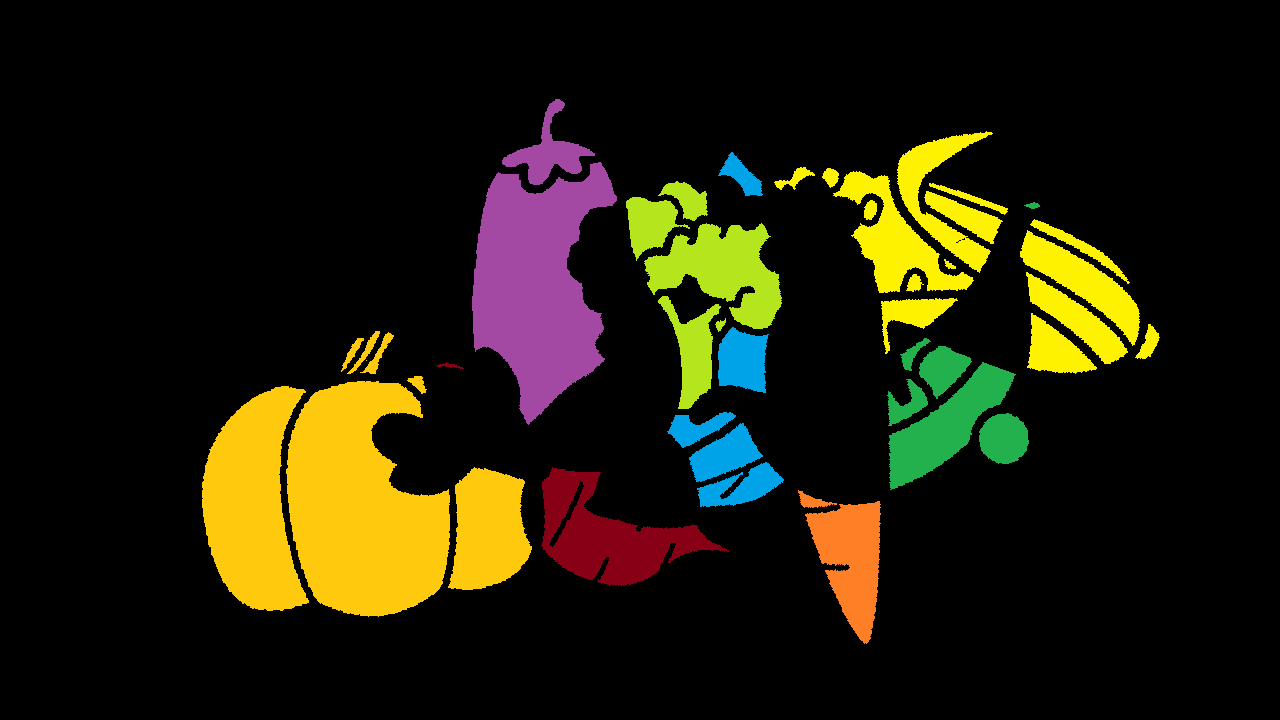
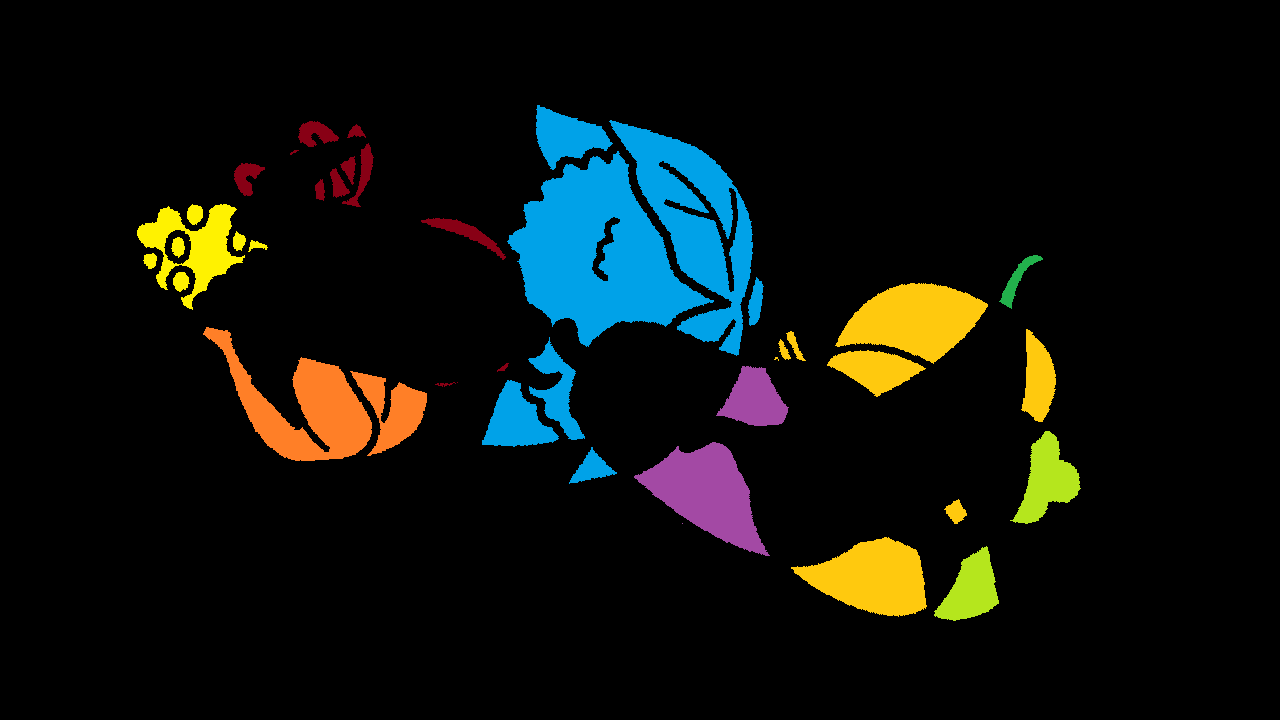
images column view

diff --git a/core/src/com/mygdx/game/screens/ScreenOverlayShapes.java b/core/src/com/mygdx/game/screens/ScreenOverlayShapes.java
@@ -4,14 +4,17 @@ import com.badlogic.gdx.Screen;
 import com.badlogic.gdx.utils.ScreenUtils;
 import com.mygdx.game.MyGdxGame;
 import com.mygdx.game.testSessions.SessionOverlayShapes;
-import com.mygdx.game.testSessions.sessionsStates.StateOverlayShapes;
 import com.mygdx.game.ui.BackgroundPixmap;
 import com.mygdx.game.ui.TextButton;
+import com.mygdx.game.ui.TextView;
 import com.mygdx.game.ui.View;
+import com.mygdx.game.ui.overlayShapes.ImageColumnView;
 import com.mygdx.game.ui.overlayShapes.ImageMapView;
 import com.mygdx.game.utils.RenderHelper;
 import com.mygdx.game.utils.SceneHelper;
+import com.mygdx.game.utils.overlayShapes.Shape;
 
+import static com.mygdx.game.utils.ApplicationSettings.COLORED_SHAPES_DIR;
 import static com.mygdx.game.utils.UsingColors.COLOR_BG_GRAY;
 
 public class ScreenOverlayShapes implements Screen {
@@ -36,6 +39,12 @@ public class ScreenOverlayShapes implements Screen {
 
         BackgroundPixmap background = new BackgroundPixmap(COLOR_BG_GRAY);
 
+        TextView textViewTitle = new TextView(
+                myGdxGame.fontArialBlack64,
+                "Перетащи овощи",
+                -1, 907
+        );
+
         TextButton startButton = new TextButton(
                 myGdxGame.fontArialBlack64,
                 "Начать",
@@ -43,7 +52,17 @@ public class ScreenOverlayShapes implements Screen {
                 775, 155
         );
 
-        ImageMapView imageMapView = new ImageMapView(100, 1280, 720, testSession.getSelectedSample(),
+        ImageColumnView imageColumnView1 = new ImageColumnView(140, 122, 720, 40);
+        ImageColumnView imageColumnView2 = new ImageColumnView(1760, 122, 720, 40);
+
+        for (int i = 0; i < testSession.shapeList.size(); i++) {
+            if (i < testSession.shapeList.size() / 2)
+                imageColumnView1.addImage(COLORED_SHAPES_DIR + testSession.shapeList.get(i).getName());
+            else
+                imageColumnView2.addImage(COLORED_SHAPES_DIR + testSession.shapeList.get(i).getName());
+        }
+
+        ImageMapView imageMapView = new ImageMapView(122, 1280, 720, testSession.getSelectedSample(),
                 onImageMapViewPressed, myGdxGame);
 
         startButton.setOnClickListener(onStartButtonClicked);
@@ -52,9 +71,14 @@ public class ScreenOverlayShapes implements Screen {
         sceneGreeting.addActor(startButton);
 
         sceneShpaesShowing.addActor(background);
-        sceneGreeting.addActor(imageMapView);
+        sceneShpaesShowing.addActor(imageMapView);
+        sceneShpaesShowing.addActor(textViewTitle);
+        sceneShpaesShowing.addActor(imageColumnView1);
+        sceneShpaesShowing.addActor(imageColumnView2);
 
         scenePassed.addActor(background);
+
+        System.out.println("Count of shapes: " + testSession.shapeList.size());
     }
 
     @Override

diff --git a/core/src/com/mygdx/game/utils/overlayShapes/ShapesDescriptor.java b/core/src/com/mygdx/game/utils/overlayShapes/ShapesDescriptor.java
@@ -1,0 +1,45 @@
+package com.mygdx.game.utils.overlayShapes;
+
+import java.util.ArrayList;
+
+public class ShapesDescriptor {
+
+    static String[] allDescriptions = {
+            "(808, 353);15;broccoli.png\n" +
+                    "(186, 199);4;cabbage.png\n" +
+                    "(463, 92);81;cauliflower.png\n" +
+                    "(672, 246);2;peas.png\n" +
+                    "(185, 70);53;beet.png\n" +
+                    "(94, 92);78;corn.png\n" +
+                    "(669, 211);59;pumpkin.png\n" +
+                    "(500, 226);57;eggplant.png\n"
+    };
+
+    private static int clearNumber(String inputStr) {
+        String outputStr = "";
+        for (int i = 0; i < inputStr.length(); i++) {
+            if (Character.isDigit(inputStr.charAt(i)))
+                outputStr += inputStr.charAt(i);
+        }
+        return Integer.parseInt(outputStr);
+    }
+
+    public static ArrayList<Shape> getSampleShapes(int sampleIdx) {
+        ArrayList<Shape> shapesList = new ArrayList<>();
+
+        String inputData = allDescriptions[sampleIdx];
+        String[] lines = inputData.split("\n");
+        for (String line : lines) {
+            String[] splitLine = line.split(";");
+            shapesList.add(new Shape(
+                    clearNumber(splitLine[0].split(",")[0]),
+                    clearNumber(splitLine[0].split(",")[1]),
+                    Integer.parseInt(splitLine[1]),
+                    splitLine[2]
+            ));
+        }
+
+        return shapesList;
+    }
+
+}

diff --git a/core/src/com/mygdx/game/testSessions/SessionOverlayShapes.java b/core/src/com/mygdx/game/testSessions/SessionOverlayShapes.java
@@ -2,6 +2,10 @@ package com.mygdx.game.testSessions;
 
 import com.mygdx.game.testSessions.sessionsStates.StateOverlayShapes;
 import com.mygdx.game.utils.overlayShapes.ColorMap;
+import com.mygdx.game.utils.overlayShapes.Shape;
+import com.mygdx.game.utils.overlayShapes.ShapesDescriptor;
+
+import java.util.ArrayList;
 
 import static com.mygdx.game.utils.ApplicationSettings.COUNT_OF_FILES;
 
@@ -11,11 +15,14 @@ public class SessionOverlayShapes {
     public ColorMap colorMap;
     private int selectedSample;
 
+    public ArrayList<Shape> shapeList;
+
     public int getSelectedSample() {
         return selectedSample;
     }
 
     public SessionOverlayShapes() {
+        shapeList = new ArrayList<>();
         testState = StateOverlayShapes.GREETING;
         startSession();
     }
@@ -31,17 +38,12 @@ public class SessionOverlayShapes {
         System.out.println("Selected sample: " + selectedSample);
         System.out.println("Count of samples: " + countOfSamples);
 
-        prepareColorMap(selectedSample);
+        colorMap = new ColorMap(selectedSample);
+        shapeList = ShapesDescriptor.getSampleShapes(selectedSample);
     }
 
     public void startTest() {
         testState = StateOverlayShapes.SHAPES_SHOWING;
-    }
-
-    private void prepareColorMap(int selectedSample) {
-        colorMap = new ColorMap(selectedSample);
-
-        System.out.println("Color code: " + colorMap.getColorCode(535, 360));
     }
 
 }

diff --git a/core/src/com/mygdx/game/ui/overlayShapes/ImageColumnView.java b/core/src/com/mygdx/game/ui/overlayShapes/ImageColumnView.java
@@ -1,0 +1,46 @@
+package com.mygdx.game.ui.overlayShapes;
+
+import com.mygdx.game.MyGdxGame;
+import com.mygdx.game.ui.ImageView;
+import com.mygdx.game.ui.View;
+
+import java.util.ArrayList;
+
+public class ImageColumnView extends View {
+
+    ArrayList<ImageView> imagesList;
+    int imagesPadding;
+
+    public ImageColumnView(float x, float y, int height, int imagesPadding) {
+        super(x, y);
+        this.imagesPadding = imagesPadding;
+        this.height = height;
+
+        imagesList = new ArrayList<>();
+    }
+
+    public void addImage(String imageSrc) {
+        ImageView imageView = new ImageView(0, 0, 0, imageSrc);
+        imagesList.add(imageView);
+        recalculateImages();
+    }
+
+    private void recalculateImages() {
+        int newHeight = (int) ((height - (imagesList.size() - 1) * imagesPadding) / imagesList.size());
+
+        for (int i = 0; i < imagesList.size(); i++) {
+            ImageView imageView = imagesList.get(i);
+            imageView.height = newHeight;
+            imageView.width = (float) imageView.imgTexture.getWidth() / imageView.imgTexture.getHeight() * imageView.height;
+            imageView.x = x - imageView.width / 2;
+            imageView.y = y + newHeight * i + imagesPadding * i;
+        }
+    }
+
+    @Override
+    public void draw(MyGdxGame myGdxGame) {
+        for (ImageView imageView : imagesList) {
+            imageView.draw(myGdxGame);
+        }
+    }
+}

diff --git a/core/src/com/mygdx/game/utils/overlayShapes/Shape.java b/core/src/com/mygdx/game/utils/overlayShapes/Shape.java
@@ -1,0 +1,33 @@
+package com.mygdx.game.utils.overlayShapes;
+
+public class Shape {
+
+    private final int x;
+    private final int y;
+    private final int rotation;
+    private final String name;
+
+    public Shape(int x, int y, int rotation, String name) {
+        this.x = x;
+        this.y = y;
+        this.rotation = rotation;
+        this.name = name;
+    }
+
+    public int getX() {
+        return x;
+    }
+
+    public int getY() {
+        return y;
+    }
+
+    public int getRotation() {
+        return rotation;
+    }
+
+    public String getName() {
+        return name;
+    }
+
+}

diff --git a/core/src/com/mygdx/game/screens/ScreenMenu.java b/core/src/com/mygdx/game/screens/ScreenMenu.java
@@ -21,7 +21,7 @@ public class ScreenMenu implements Screen {
 
         uiComponentsList = new ArrayList<>();
 
-        TextView textViewTest1 = new TextView(myGdxGame.fontArialGray64, "Test1", 100, 200);
+        TextView textViewTest1 = new TextView(myGdxGame.fontArialGray64, "Овощной рай(рагу)", 100, 200);
         TextView textViewTest2 = new TextView(myGdxGame.fontArialGray64, "Коррекатурная проба", 100, 300);
         TextView textViewTest3 = new TextView(myGdxGame.fontArialGray64, "Schulte table test", 100, 400);
 

diff --git a/core/src/com/mygdx/game/utils/ApplicationSettings.java b/core/src/com/mygdx/game/utils/ApplicationSettings.java
@@ -28,6 +28,7 @@ public class ApplicationSettings {
     public static String COLOR_MAP_DESCRIPTIONS_DIR = "overlayShapes/colorMap/";
     public static String OVERLAY_PICTURES_DIR = "overlayShapes/overlayPictures/";
     public static String COLOR_MAP_DIR = "overlayShapes/colorMap/";
+    public static String COLORED_SHAPES_DIR = "overlayShapes/coloredShapes/";
 
     // TODO: remove it
     public static int COUNT_OF_FILES = 1;
